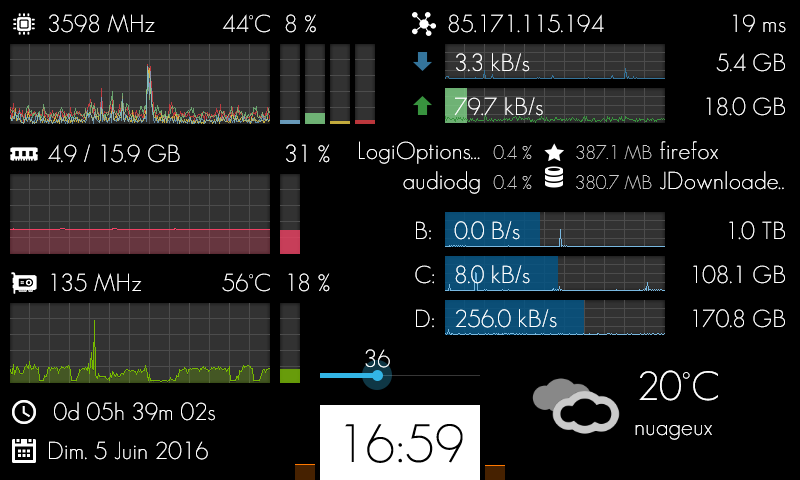
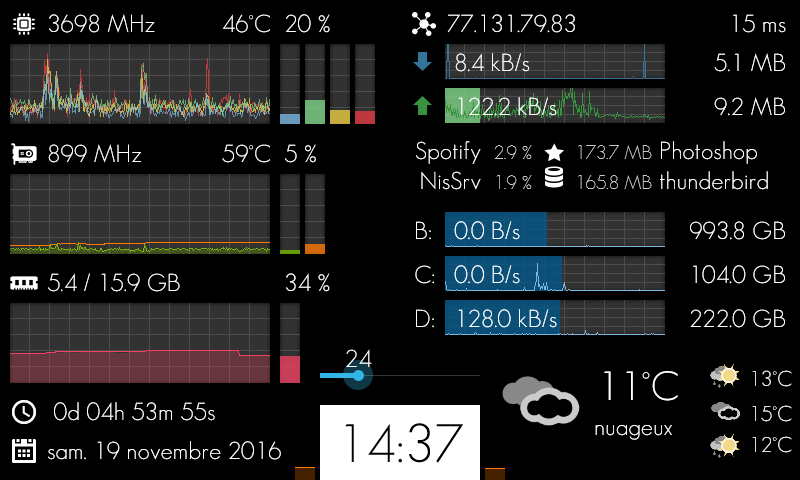
Add VRAM usage

diff --git a/README.md b/README.md
@@ -11,7 +11,7 @@ Special skin to be displayed on a 800*480 screen (formerly a Galaxy S connected 
  * CPU clock + temperature + load
  * RAM size + load
  * ~~SWAP size + load~~ (removed because useless on recent machines)
- * GPU clock + temperature + load
+ * GPU clock + temperature + load + vram
  * Uptime
  * Date
  * External IP
